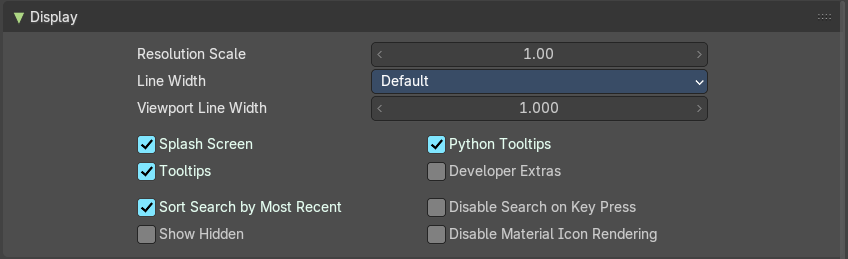
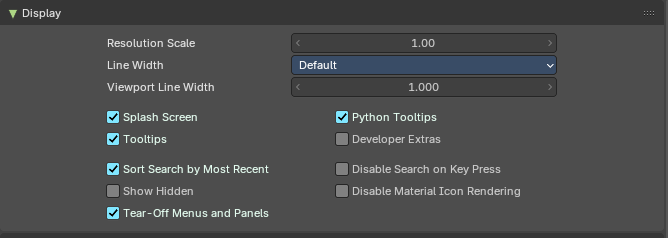
docs2: new page Tear-Off Menus and Panels
Covers tearing off menus, submenus, dropdowns, popovers and panels,
moving, collapsing, closing, sizing and cropping, stacking, where
tear-offs show (workspace, editor, mode), saving with the file and Load
UI, and the preference. Nine captures from Bforartists 5.4.0 Alpha.

Also: the new option in Preferences > Interface > Display (picture
refreshed), File > New and New from Template keep or bring workspaces,
a Tearing off panels section on Tabs & Panels and a tip on Floating
Menus.

Closes #1716

diff --git a/docs2/content/interface/tear-off-menus-and-panels.md b/docs2/content/interface/tear-off-menus-and-panels.md
@@ -1,0 +1,118 @@
+---
+id: interface.tear-off-menus-and-panels
+title: "Tear-Off Menus and Panels"
+section: interface
+path:
+  - "Interface"
+  - "Tear-Off Menus and Panels"
+version: "5.4"
+status: needs-review
+icon: pinned
+summary: "Tear a menu, dropdown or panel off and keep it floating over the editor, one click away."
+---
+A **tear-off** is a menu, dropdown or panel that you pull out of its place so it stays open, floating over the editor. Normal menus close as soon as you pick an item. A tear-off stays, so the tools you use again and again are always one click away, without a hotkey, a deep menu or a full Quick Favorites menu.
+
+You can tear off almost anything: header menus and their submenus, popovers, dropdowns and the panels of the sidebars, the tool shelf and the Properties editor. Tear-offs are a Bforartists feature.
+
+> **Tip:** You can turn tear-offs off completely in the Preferences. See **Turn tear-offs off** at the end of this page.
+
+## Tear off a menu
+
+![The Tear Off Menu row at the top of the Object menu](/docs2/images/ui/interface/tear-off/tear-off-menu-row.png)
+
+Every menu starts with a **Tear Off Menu** row, above its first entry.
+
+- **Click** the row: the menu turns into a tear-off right where it is.
+- **Drag** the row: you carry the new tear-off away with the mouse, and it lands where you let go.
+
+![The Snap menu as a tear-off over the 3D View](/docs2/images/ui/interface/tear-off/tear-off-snap.png)
+
+A torn-off menu works like the menu it came from: click an entry to run it. It just doesn't close afterwards. Its title bar holds the name of the menu, a grip to move it, a pin and an **X** to close it.
+
+### Submenus
+
+![The Snap submenu of a torn-off Object menu, with its own Tear Off Menu row](/docs2/images/ui/interface/tear-off/tear-off-submenu.png)
+
+Submenus open from a tear-off as usual, and they have their own **Tear Off Menu** row too. So you can tear off a whole menu, or only the one submenu that you need.
+
+### Dropdowns and popovers
+
+![The Transform Pivot Point dropdown as a tear-off, following the header](/docs2/images/ui/interface/tear-off/tear-off-enum.png)
+
+Dropdowns of a setting, such as the Transform Pivot Point in the 3D View header, also have a **Tear Off Menu** row. A torn-off dropdown stays live: it always shows the current value, and when you pick a value in it, the header shows the new one too. In the picture, 3D Cursor was picked in the tear-off, and the header button changed with it.
+
+Popovers, such as the Viewport Gizmos and Viewport Overlays popovers of the 3D View header, start with a **Tear Off Panel** row instead. It works the same way: click it, or drag it away.
+
+## Tear off a panel
+
+![Tear Off Panel in the context menu of a sidebar panel](/docs2/images/ui/interface/tear-off/tear-off-panel-entry.png)
+
+Panels have no Tear Off row. Tear them off in one of two ways:
+
+- **Shift+drag** the panel header out of its place.
+- **Right-click** the panel header and choose **Tear Off Panel**.
+
+Shift+click on the header still pins the panel, as before. See **Pinning panels** on the [Tabs & Panels](tabs-and-panels.md) page.
+
+![The Options panel of the 3D View sidebar as a tear-off](/docs2/images/ui/interface/tear-off/tear-off-panel.png)
+
+A torn-off panel shows the same settings as the original panel, and both stay in sync. Panels of the tool shelf keep their width and their number of columns when you tear them off.
+
+> **Note:** Panels that belong to one item of a stack, such as a modifier, a constraint or a scene effect, can't be torn off.
+
+## Work with tear-offs
+
+### Move
+
+Drag the title bar, or the grip at its left, to move a tear-off. Tear-offs always stay inside the window, also when the window gets smaller.
+
+### Collapse
+
+![A collapsed tear-off: just the title bar](/docs2/images/ui/interface/tear-off/tear-off-collapsed.png)
+
+Click the **pin** icon, or double-click the title, to collapse a tear-off to its title bar. Click again to open it. Only the bottom edge moves, so the pin and the X stay under the mouse.
+
+A collapsed tear-off fades to 60% when you don't use it, and comes back fully when the mouse moves over it. That way it stays out of the way of your work.
+
+### Close
+
+Click the **X** in the title bar.
+
+### Size
+
+Tear-offs fit their content when they appear:
+
+- **Menus** are as wide as their widest row.
+- **Panels** can be made wider or narrower: drag their **right edge**. Double-click the edge to go back to the original width.
+
+![A torn-off Object menu cropped from its bottom edge, with a scroll bar](/docs2/images/ui/interface/tear-off/tear-off-cropped.png)
+
+Both menus and panels can be **cropped from the bottom edge**: drag the bottom edge up, and the tear-off shows only its top part, with a scroll bar for the rest. So a long menu can show just the entries you use.
+
+### Stack them like windows
+
+When tear-offs overlap, the one you clicked last is on top, as with windows. Any mouse button on any part of it brings it forward. It doesn't jump to the front: it fades in through the one that covered it in a short moment, and only the part that was covered changes.
+
+## Where tear-offs show
+
+A tear-off belongs to the **workspace**, the **editor** and the **mode** where you made it. Switch to another workspace, change the editor or leave the mode, and it hides. Come back, and it shows again where you left it. So a tear-off from Edit Mode doesn't get in your way in Object Mode, and a tear-off of the 3D View doesn't float over the Shader Editor.
+
+## Saved with the file
+
+Tear-offs are saved with their workspace, in the .blend file and in the startup file, with their position, size and collapsed state.
+
+- With **Load UI** on (the default), opening a file gives you the tear-offs of that file.
+- With **Load UI** off, you keep the tear-offs of your current workspaces.
+- Auto Save and **Recover Last Session** keep the tear-offs too.
+
+The tear-offs are stored in a way that Blender doesn't read, so a file with tear-offs still opens in Blender.
+
+> **Tip:** Set up the tear-offs that you always want, then save the startup file with **Edit > Save Startup File**. Every new file then starts with them.
+
+## Turn tear-offs off
+
+![The Tear-Off Menus and Panels option in the Display panel of the Interface preferences](/docs2/images/ui/interface/tear-off/tear-off-preference.png)
+
+**Preferences > Interface > Display > Tear-Off Menus and Panels** switches the feature on and off. It is on by default.
+
+When it is off, menus have no Tear Off row and panels no Tear Off Panel entry, and menus behave as in Blender. Open tear-offs close, and come back when you turn the option on again.

diff --git a/docs2/content/editors/topbar-and-statusbar/topbar-menus/index.md b/docs2/content/editors/topbar-and-statusbar/topbar-menus/index.md
@@ -31,13 +31,13 @@ The File menu contains file related functionality.
 
 ## New
 
-Creates a new scene, using the current active template.
+Creates a new, empty scene, using the current active template. You keep your current workspaces, with their tear-offs. The New button in the toolbar and Ctrl+N do the same.
 
 ## New from Template
 
 ![New from Template](/docs2/images/editors/topbar-and-statusbar/topbar-menus/file-menu/new-from-template.jpg)
 
-Choose to create a new file with predefined Application Templates.
+Choose to create a new file with predefined Application Templates. A template always brings its own workspaces, even when Load UI is off.
 
 Application templates is a collection of workspaces for a predefined purpose.
 

diff --git a/docs2/content/editors/preferences.md b/docs2/content/editors/preferences.md
@@ -131,6 +131,10 @@ Ignore menus toggling with Search on Key Press, and fallback to using accelerato
 
 Stops the preview icons on the material properties from rendering, which helps avoid causing the UI to stutter or freeze. This is a Bforartists only feature.
 
+#### Tear-Off Menus and Panels
+
+Lets you tear menus, dropdowns, popovers and panels off, so they stay open and float over the editor. On by default. When off, menus have no Tear Off row and behave as in Blender, and open tear-offs close until you turn it on again. This is a Bforartists only feature. See [Tear-Off Menus and Panels](../interface/tear-off-menus-and-panels.md).
+
 
 
 ### Editors Panel

diff --git a/docs2/content/interface/tabs-and-panels.md b/docs2/content/interface/tabs-and-panels.md
@@ -36,6 +36,10 @@ Right click at the tab that you want to pin. A menu pops up. Check the Pin check
 
 To unpin the panel simply click at the Pin icon.
 
+### Tearing off panels
+
+Shift+drag a panel header, or right-click it and choose **Tear Off Panel**, to take the panel out of its place. It then floats over the editor and stays open. See [Tear-Off Menus and Panels](tear-off-menus-and-panels.md).
+
 ### Open just one Panel at a time
 
 This can be done by clicking at the header of a panel and holding down ctrl.

diff --git a/docs2/content/interface/floating-menus.md b/docs2/content/interface/floating-menus.md
@@ -14,6 +14,8 @@ source:
 ---
 A **floating menu** opens on top of the editor: the text menus in the headers, the menus that hotkeys call (such as **Add** with Shift A), and the search menu (F3). They close as soon as you choose an item, move away, or press Esc.
 
+> **Tip:** Want a menu to stay open? Click the **Tear Off Menu** row at its top. See [Tear-Off Menus and Panels](tear-off-menus-and-panels.md).
+
 ## Menu
 
 ![Menu](/docs2/images/ui/interface/controls/menu.png)
